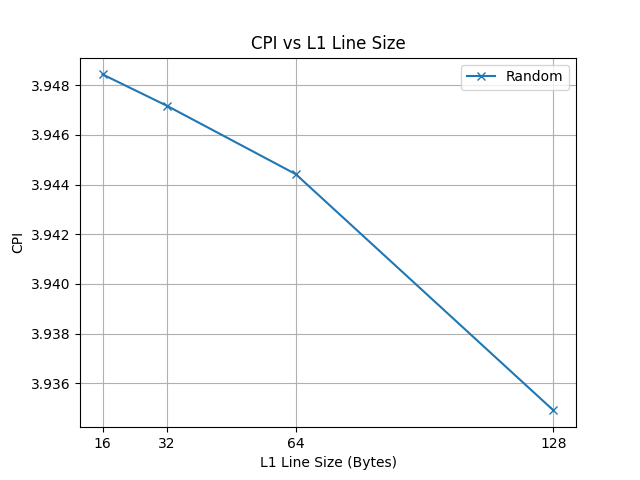
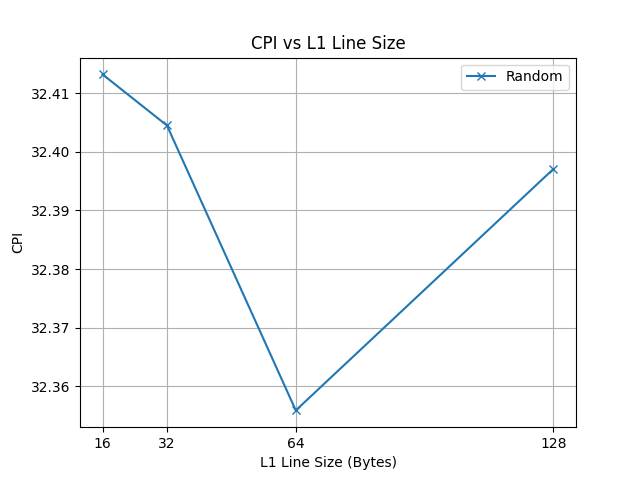
finalizing

diff --git a/Main.cpp b/Main.cpp
@@ -1,5 +1,3 @@
-    //Cache Project
-
 #include <iostream>
 #include <iomanip>
 #include <string>
@@ -10,7 +8,7 @@
 #include <ctime>
 using namespace std;
 
-#define DRAM_SIZE (64*1024*1024) // 64 GB
+#define DRAM_SIZE (64*1024*1024)
 
 // Cache configuration constants
 #define L1_SIZE (16*1024)        // 16 KB
@@ -424,91 +422,7 @@ void outputCSVResults(SimResult results[][4], string genNames[], int lineSizes[]
     cout << "\nResults exported to simulation_results1.csv\n";
 }
 
-void generateASCIIGraph(SimResult results[][4], string genNames[], int lineSizes[]) {
-    cout << "\n=== ASCII Performance Graph ===\n";
-    cout << "CPI vs Line Size (each * represents ~0.5 CPI)\n\n";
 
-    for(int gen = 0; gen < 5; gen++) {
-        cout << setw(12) << genNames[gen] << " | ";
-
-        for(int ls = 0; ls < 4; ls++) {
-            int stars = min((int)(results[gen][ls].cpi * 2), 50); // Scale to max 50 chars
-            cout << string(stars, '*') << " (" << lineSizes[ls] << "B) ";
-            if(ls < 3) cout << "\n" << string(15, ' '); // New line for readability
-        }
-        cout << "\n\n";
-    }
-}
-
-void generateSimpleChart(SimResult results[][4], string genNames[], int lineSizes[]) {
-    cout << "\n=== Performance Chart ===\n";
-    cout << "Generator    | 16B    | 32B    | 64B    | 128B   | Trend\n";
-    cout << string(60, '-') << "\n";
-
-    for(int gen = 0; gen < 5; gen++) {
-        cout << setw(12) << genNames[gen] << " | ";
-
-        for(int ls = 0; ls < 4; ls++) {
-            cout << setw(6) << fixed << setprecision(2) << results[gen][ls].cpi << " | ";
-        }
-
-        // Show trend
-        double improvement = ((results[gen][0].cpi - results[gen][3].cpi) / results[gen][0].cpi) * 100;
-        if(improvement > 5) cout << " [Down] BETTER";
-        else if(improvement < -5) cout << " [Down] WORSE";
-        else cout << "  STABLE";
-
-        cout << "\n";
-    }
-}
-void generateHTMLReport(SimResult results[][4], string genNames[], int lineSizes[]) {
-    ofstream htmlFile("cache_results.html");
-
-    htmlFile << "<!DOCTYPE html>\n<html>\n<head>\n";
-    htmlFile << "<title>Cache Performance Results</title>\n";
-    htmlFile << "<script src=\"https://cdn.jsdelivr.net/npm/chart.js\"></script>\n";
-    htmlFile << "</head>\n<body>\n";
-    htmlFile << "<h1>Cache Performance Analysis</h1>\n";
-    htmlFile << "<canvas id=\"cpiChart\" width=\"800\" height=\"400\"></canvas>\n";
-
-    // JavaScript data
-    htmlFile << "<script>\n";
-    htmlFile << "const ctx = document.getElementById('cpiChart').getContext('2d');\n";
-    htmlFile << "const chart = new Chart(ctx, {\n";
-    htmlFile << "  type: 'line',\n";
-    htmlFile << "  data: {\n";
-    htmlFile << "    labels: [16, 32, 64, 128],\n";
-    htmlFile << "    datasets: [\n";
-
-    for(int gen = 0; gen < 5; gen++) {
-        htmlFile << "      {\n";
-        htmlFile << "        label: '" << genNames[gen] << "',\n";
-        htmlFile << "        data: [";
-        for(int ls = 0; ls < 4; ls++) {
-            htmlFile << results[gen][ls].cpi;
-            if(ls < 3) htmlFile << ", ";
-        }
-        htmlFile << "],\n";
-        htmlFile << "        borderColor: 'hsl(" << (gen * 60) << ", 70%, 50%)',\n";
-        htmlFile << "        fill: false\n";
-        htmlFile << "      }";
-        if(gen < 4) htmlFile << ",";
-        htmlFile << "\n";
-    }
-
-    htmlFile << "    ]\n  },\n";
-    htmlFile << "  options: {\n";
-    htmlFile << "    responsive: true,\n";
-    htmlFile << "    scales: {\n";
-    htmlFile << "      y: { type: 'logarithmic' }\n";
-    htmlFile << "    }\n";
-    htmlFile << "  }\n";
-    htmlFile << "});\n";
-    htmlFile << "</script>\n</body>\n</html>";
-
-    htmlFile.close();
-    cout << "✓ Interactive HTML report generated: cache_results.html\n";
-}
 int main() {
     srand(time(0));
     // Run tests first

diff --git a/grapher.py b/grapher.py
@@ -10,21 +10,21 @@ def cpi_vs_line_size(results, output_folder, filename="default"):
     # plots graphs of cpi against line size for the different generators
     generators = results['Memory_Generator'].unique()
     line_sizes = sorted(results['Line_Size'].unique())
-    # icon = mpimg.imread("graphs/bow.png")
+    icon = mpimg.imread("graphs/bow.png")
 
     os.makedirs(output_folder, exist_ok=True)
 
     for generator in generators:
-        # plt.figure(figsize= (10, 6), facecolor='#ffe6f0')
+        plt.figure(figsize= (10, 6), facecolor='#ffe6f0')
         set = results[results['Memory_Generator'] == generator]
-        # plt.plot(set['Line_Size'], set['CPI'], marker = 'x', label = generator, color = '#E75480')
+        plt.plot(set['Line_Size'], set['CPI'], marker = 'x', label = generator, color = '#E75480')
         plt.plot(set['Line_Size'], set['CPI'], marker = 'x', label = generator)
 
 
-        # for x, y in zip(set['Line_Size'], set['CPI']):
-        #     im = OffsetImage(icon, zoom=0.5)
-        #     ab = AnnotationBbox(im, (x, y), frameon=False, box_alignment=(0.5, 0.5))
-        #     plt.gca().add_artist(ab)
+        for x, y in zip(set['Line_Size'], set['CPI']):
+            im = OffsetImage(icon, zoom=0.5)
+            ab = AnnotationBbox(im, (x, y), frameon=False, box_alignment=(0.5, 0.5))
+            plt.gca().add_artist(ab)
 
         plt.title('CPI vs L1 Line Size')
         plt.xlabel('L1 Line Size (Bytes)')
@@ -60,11 +60,11 @@ def average_cpi_vs_line_size(folder):
 
 def main():
     try:
-        file = r"results/simulation_results5.csv"
+        file = r"simulation_results.csv"
 
         results = pd.read_csv(file)
 
-        cpi_vs_line_size(results, "graphs/data_5")
+        cpi_vs_line_size(results, "graphs")
 
         # folder = "results"
         # averaged = average_cpi_vs_line_size(folder)

diff --git a/README.md b/README.md
@@ -3,6 +3,7 @@
 A comprehensive cache hierarchy simulator that analyzes the impact of L1 cache line sizes on system performance across different memory access patterns.
 
 ![Cache Simulator](https://img.shields.io/badge/Language-C++-blue.svg)
+![Plotting](https://img.shields.io/badge/Visualization-Python-yellow.svg)
 
 ## Table of Contents
 
@@ -14,11 +15,10 @@ A comprehensive cache hierarchy simulator that analyzes the impact of L1 cache l
 - [Cache Configuration](#cache-configuration)
 - [Memory Access Patterns](#memory-access-patterns)
 - [Output Analysis](#output-analysis)
-- [Visualization](#visualization)
+- [Visualization](#python-visualization)
 - [Results Interpretation](#results-interpretation)
 - [Project Structure](#project-structure)
 - [Academic Context](#academic-context)
-- [Contributing](#contributing)
 
 ##  Overview
 
@@ -52,8 +52,6 @@ This simulator models a realistic two-level cache hierarchy found in modern proc
 - **Performance validation**
 - **Hit rate analysis** (L1 and L2)
 - **Multiple output formats**
-- **ASCII visualization**
-- **Statistical analysis**
 
 ##  System Requirements
 
@@ -61,24 +59,17 @@ This simulator models a realistic two-level cache hierarchy found in modern proc
 - **OS**: Windows 10, macOS 10.14+, or Linux
 - **Compiler**: GCC 7+, Clang 6+, or MSVC 2017+
 - **C++ Standard**: C++11 or later
-- **RAM**: 256MB available memory
-- **Storage**: 50MB free space
-
-### Recommended
-- **Compiler**: GCC 9+ or equivalent
-- **RAM**: 1GB+ for comfortable execution
-- **Terminal**: Support for extended ASCII characters
 
 ##  Installation
 
 ### Method 1: Direct Compilation
 ```bash
 # Clone the repository
-git clone https://github.com/yourusername/cache-simulator.git
-cd cache-simulator
+git clone https://github.com/salmawaleed055/Cache-Simulator
+cd Cache-Simulator
 
 # Compile with optimizations
-g++ -std=c++11 -O2 -o cache_simulator cache_simulator.cpp
+g++ -std=c++11 -O2 -o cache_simulator Main.cpp
 
 # Run the simulator
 ./cache_simulator
@@ -93,7 +84,7 @@ make
 ```
 
 ### Method 3: Windows (Visual Studio)
-1. Open `cache_simulator.cpp` in Visual Studio
+1. Open `Main.cpp` in Visual Studio
 2. Build in Release mode (Ctrl+Shift+B)
 3. Run the executable
 
@@ -105,9 +96,9 @@ make
 ```
 
 ### Expected Output Flow
-1. **Verification Tests** (~2 seconds)
+1. **Verification Tests** 
 2. **Configuration Display**
-3. **Simulation Execution** (~30-60 seconds)
+3. **Simulation Execution** 
    - 5 memory generators × 4 line sizes = 20 test runs
    - 1M instructions per test = 20M total instructions
 4. **Results Analysis and Visualization**
@@ -225,52 +216,32 @@ addr = 0, 32, 64, 96, 128, ... (stride = 32B)
 ```
 CPI Results:
 ============
-   Generator         16B         32B         64B        128B
-------------------------------------------------------------
-     memGen1       1.925       1.686       1.554       1.277
-     memGen2       3.065       3.064       3.067       3.052  
-     memGen3      32.451      32.445      32.479      32.494
-     memGen4       1.006       1.004       1.004       1.002
-     memGen5      21.702      21.702      19.241      11.113
+| Generator        | 16B    | 32B    | 64B    | 128B   |
+|------------------|--------|--------|--------|--------|
+| Sequential       | 1.925  | 1.686  | 1.554  | 1.277  |
+| Random 24KB      | 3.065  | 3.064  | 3.067  | 3.052  |
+| Random           | 32.451 | 32.445 | 32.479 | 32.494 |
+| Sequential 4KB   | 1.006  | 1.004  | 1.004  | 1.002  |
+| Sequential 1MB   | 21.702 | 21.702 | 19.241 | 11.113 |
 ```
 
-## Visualization
+## Python Visualization
 
-### ASCII Graphs (Built-in)
-```
-=== ASCII Performance Graph ===
-CPI vs Line Size (each * represents ~0.5 CPI)
+After generating the simulation results (`simulation_results.csv`), you can run the optional Python script to produce high-quality graphs for analysis.
 
-     memGen1 | *** (16B)  *** (32B)  *** (64B)  ** (128B)
-     memGen4 | ** (16B)   ** (32B)   ** (64B)   ** (128B)
-     memGen5 | *******************************************(16B)
-               ********************** (128B)
-```
+#### Requirements:
+- Python 3.7+
+- `matplotlib`
+- `pandas`
+- `numpy`
 
-### Performance Chart
-```
-Generator    | 16B    | 32B    | 64B    | 128B   | Trend
-------------------------------------------------------------
-     memGen1 |   1.92 |   1.69 |   1.55 |   1.28 |  DOWN BETTER
-     memGen2 |   3.06 |   3.06 |   3.07 |   3.05 |  -> STABLE
-     memGen5 |  21.70 |  21.70 |  19.24 |  11.11 |  DOWN BETTER
-```
-
-### Python Visualization (Optional)
-If you have Python with matplotlib installed:
-
+#### Run:
 ```bash
-# After running the simulator
-python3 analyze_cache_results.py
+python grapher.py
 ```
 
-This generates professional graphs:
-- **CPI vs Line Size** (log and linear scales)
-- **Performance Heatmap**
-- **Hit Rate Analysis**
-- **Individual Pattern Analysis**
 
-## 🔬 Results Interpretation
+## Results Interpretation
 
 ### Expected Performance Patterns
 
@@ -309,17 +280,13 @@ This generates professional graphs:
 ##  Project Structure
 
 ```
-cache-simulator/
-├── cache_simulator.cpp          # Main simulator source code
-├── simulation_results.csv       # Generated results data
-├── cache_results.html          # Interactive HTML report
-├── analyze_cache_results.py    # Python visualization script
+Cache-Simulator/
+├── main.cpp                    # Main simulator source code
+├── simulation_results.csv      # Generated results data
+├── grapher.py                  # Python visualization script
 ├── README.md                   # This file
 ├── build/                      # Build directory (if using CMake)
 └── docs/                       # Additional documentation
-    ├── cache_architecture.md   # Cache design details
-    ├── memory_patterns.md      # Memory pattern analysis
-    └── performance_analysis.md # Results interpretation guide
 ```
 
 ### Key Components
@@ -329,58 +296,18 @@ cache-simulator/
 - **Memory Generators**: 5 different access pattern functions
 - **Simulation Engine**: Main simulation loop and timing model
 - **Test Framework**: Automated verification and validation
-- **Output System**: Console, CSV, and HTML generation
+- **Output System**: Console and CSV
 
 #### Generated Files
 - **`simulation_results.csv`**: Raw data for external analysis
-- **`cache_results.html`**: Interactive charts using Chart.js
-- **Console Output**: Immediate results and ASCII visualizations
+- **Console Output**: Immediate results
 
-## 🎓 Academic Context
+## Academic Context
 
 ### Course Integration
-This simulator is designed for computer architecture courses covering:
+This simulator is designed for Computer Organization and Assembly, Summer 2025 for course project 2 covering:
 - **Cache Memory Systems**
 - **Memory Hierarchy Design** 
 - **Performance Analysis**
 - **Spatial and Temporal Locality**
 - **Cache Optimization Techniques**
-
-### Learning Objectives
-Students will understand:
-1. **Cache Hierarchy Operation**: How multi-level caches work together
-2. **Line Size Trade-offs**: Benefits and costs of larger cache lines
-3. **Access Pattern Impact**: How software affects hardware performance
-4. **Performance Metrics**: CPI analysis and optimization strategies
-5. **Design Space Exploration**: Systematic performance evaluation
-
-### Assignment Usage
-- **Data Collection**: 20 simulation runs (5 patterns × 4 line sizes)
-- **Analysis Report**: Graph interpretation and conclusions
-- **Performance Comparison**: Quantitative analysis of results
-- **Design Recommendations**: Cache optimization strategies
-
-##  Files Generated
-
-### Simulation Outputs
-| File | Format | Purpose | Size |
-|------|---------|---------|------|
-| `simulation_results.csv` | CSV | Python/Excel analysis | ~2KB |
-| `cache_results.html` | HTML | Interactive visualization | ~15KB |
-| Console output | Text | Immediate results | N/A |
-
-CSV Data Format
-```csv
-Generator,LineSize,CPI,L1_HitRate,L2_HitRate,AvgMemTime
-memGen1,16,1.9246,0.9375,0.8467,3.6478
-memGen1,32,1.6860,0.9687,0.7137,2.9646
-...
-```
-
-### HTML Features
-- **Interactive Charts**: Zoom, pan, toggle data series
-- **Responsive Design**: Works on mobile and desktop
-- **Export Options**: Save charts as images
-- **Real-time Data**: Updates with new simulation runs
-
-## 
